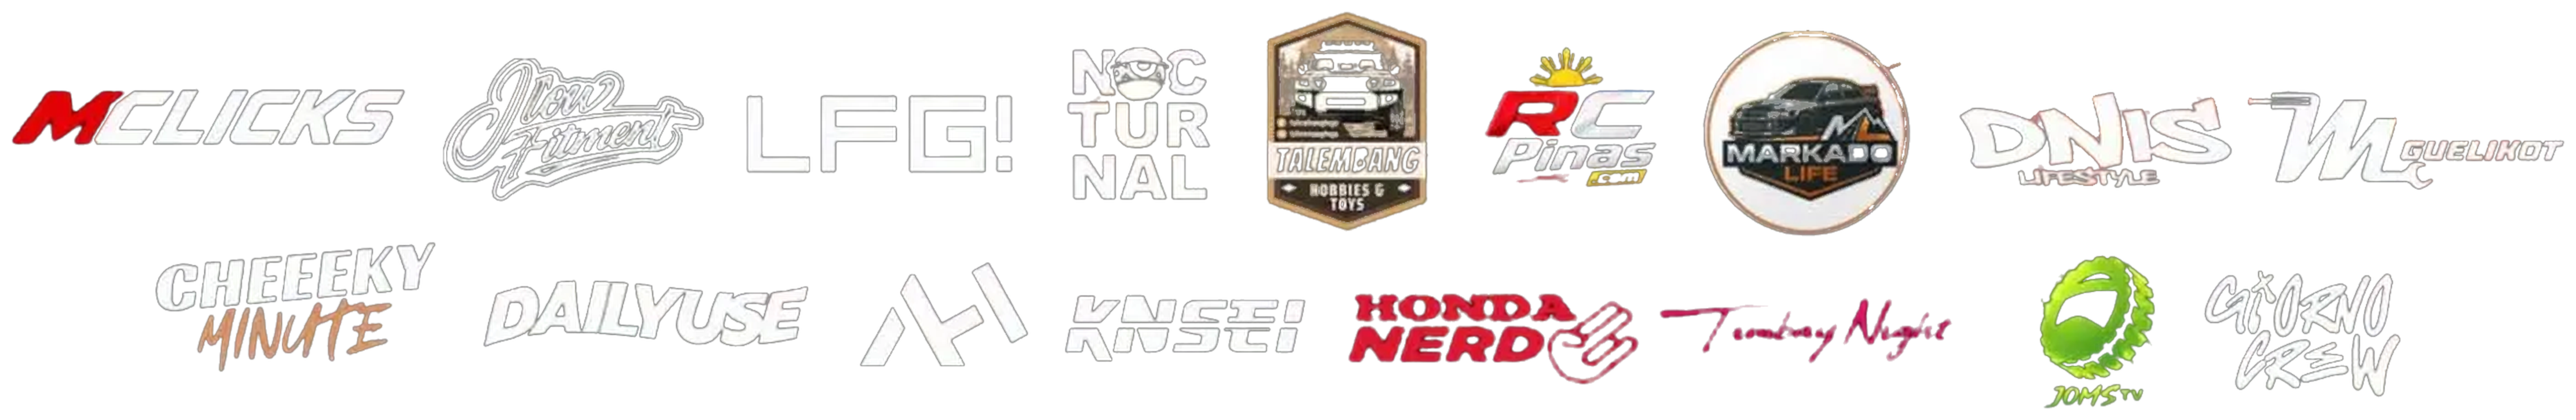
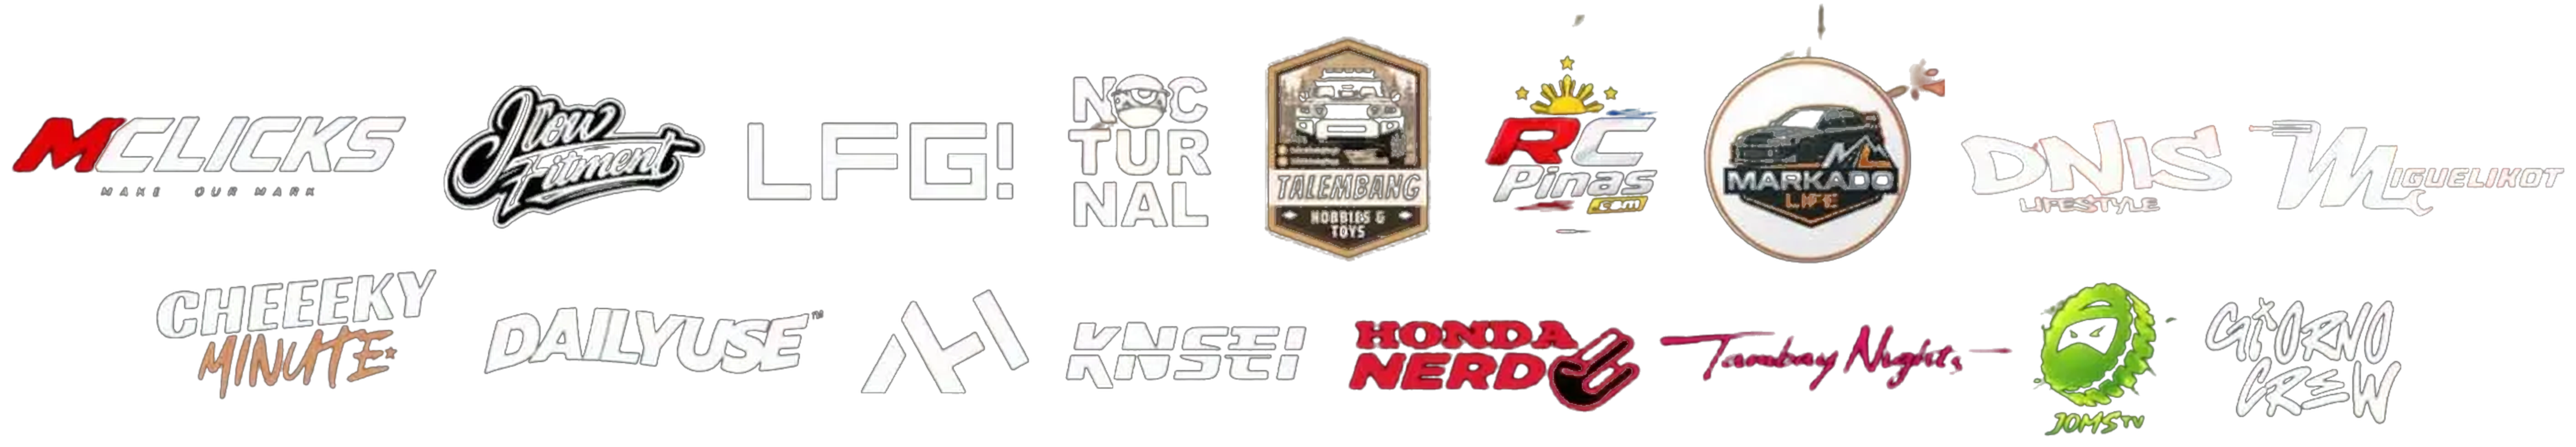
Sponsor strip: keep the thin parts the first cut lost
Gentler thresholds so small and thin marks survive (MCLICKS tagline,
the RC Pinas stars, DAILYUSE TM, Tambay Nights in full, JOMS TV, the
Cheeeky Minute star), with the lit-rock sparks along the top removed by
size, hue and the lack of a solid core.

Changed region(s): [[0.0, 0.0305, 0.7735, 0.61], [0.0619, 0.5795, 0.9282, 0.976], [0.7735, 0.2135, 1.0, 0.488]]

diff --git a/scripts/tcf-cutout-logos.py b/scripts/tcf-cutout-logos.py
@@ -31,6 +31,8 @@ def cutout(box, name, lo=0.30, hi=0.52, min_hole=900, scale=2, speck=60, rocks=N
         warm = (r > g) & (g > b) & (sat > 0.3) & (mn < 0.6)
         zone = np.zeros_like(warm); zone[y0:y1, x0:x1] = True
         alpha = np.where(warm & zone, 0, alpha)
+        # The logos in that corner (DNIS, Miguelikot) are near-white; keep only bright ink there.
+        alpha = np.where(zone, np.minimum(alpha, np.clip((lum - 0.45) / 0.15, 0, 1)), alpha)
 
     # Fill big enclosed holes (badge faces); leave letter counters open.
     solid = alpha > 0.5
@@ -49,6 +51,16 @@ def cutout(box, name, lo=0.30, hi=0.52, min_hole=900, scale=2, speck=60, rocks=N
         # Sunlit rock streaks run in from the crop's top edge; no logo touches it.
         top = np.unique(lab[0][lab[0] > 0])
         keep &= ~np.isin(lab, top)
+        # Sparks of lit rock along the top band: tiny components above the logo rows.
+        if rocks:
+            cy = ndimage.center_of_mass(np.ones_like(lab), lab, np.arange(1, n + 1))
+            gr = ndimage.mean(g / np.maximum(r, 1e-3), lab, np.arange(1, n + 1))
+            # A spark is small, high up and orange; the yellow RC Pinas star (green close to red) is kept.
+            sparks = [i + 1 for i, (c, sz, q) in enumerate(zip(cy, sizes, gr)) if c[0] < 60 * scale and ((sz < 90 * scale * scale and q < 0.78) or sz < 25 * scale * scale)]
+            keep &= ~np.isin(lab, sparks)
+            # Faint smudges of rock never reach a solid core; every logo does.
+            peak = ndimage.maximum(alpha, lab, np.arange(1, n + 1))
+            keep &= ~np.isin(lab, [i + 1 for i, pk in enumerate(peak) if pk < 0.7])
         alpha = np.where(keep, alpha, 0)
 
     alpha = ndimage.gaussian_filter(alpha, 0.6)
@@ -65,4 +77,4 @@ def cutout(box, name, lo=0.30, hi=0.52, min_hole=900, scale=2, speck=60, rocks=N
 
 
 cutout((425, 95, 1125, 232), "presented-by", lo=0.2, hi=0.42, min_hole=400, speck=4)
-cutout((30, 1715, 1460, 1985), "sponsors", lo=0.30, hi=0.52, min_hole=500, rocks=(980, 0, 1430, 120))
+cutout((20, 1705, 1475, 1995), "sponsors", lo=0.22, hi=0.42, min_hole=500, speck=12, rocks=(1090, 0, 1455, 150))
